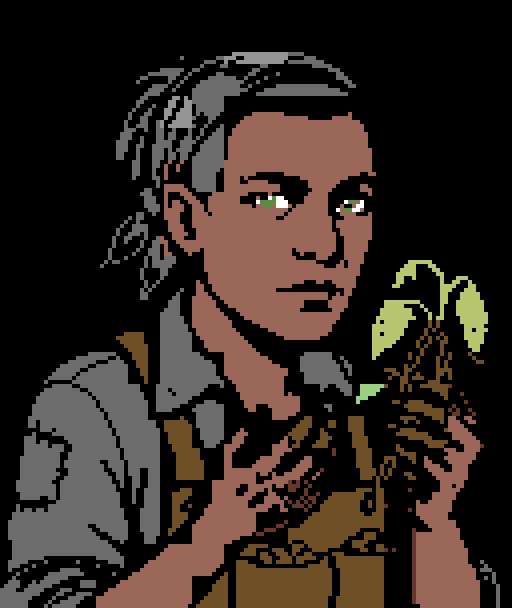
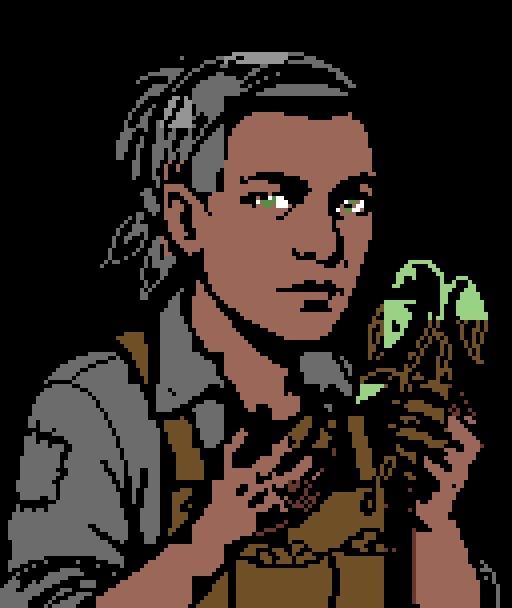
Nuclear Land: Tamsin's plant is green, not yellow
No yellow in the plant's cells, so its leaves take the pale green of the leaf
that already was.

Changed region(s): [[0.6875, 0.4062, 0.9688, 0.625]]

diff --git a/nuclear-land/assets/original/convert_c64.py b/nuclear-land/assets/original/convert_c64.py
@@ -152,7 +152,8 @@ CONFIGS = {
         iris=GREEN,
         brow_fix=78,                                                      # no white speck in the left brow
         base=[RED, YELLOW, ORANGE, PINK, GREY, LGREEN, LGREY],
-        remove=[((12, 7, 15, 9), [ORANGE, PINK, RED, GREY, LGREY])],      # the plant's leaves
+        remove=[((12, 7, 15, 9), [ORANGE, PINK, RED, GREY, LGREY]),     # the plant's leaves...
+                ((11, 7, 15, 13), [YELLOW])],                             # ...pale green, not yellow
         eyes=[(4, 5, 12, 9)],
     ),
 }
